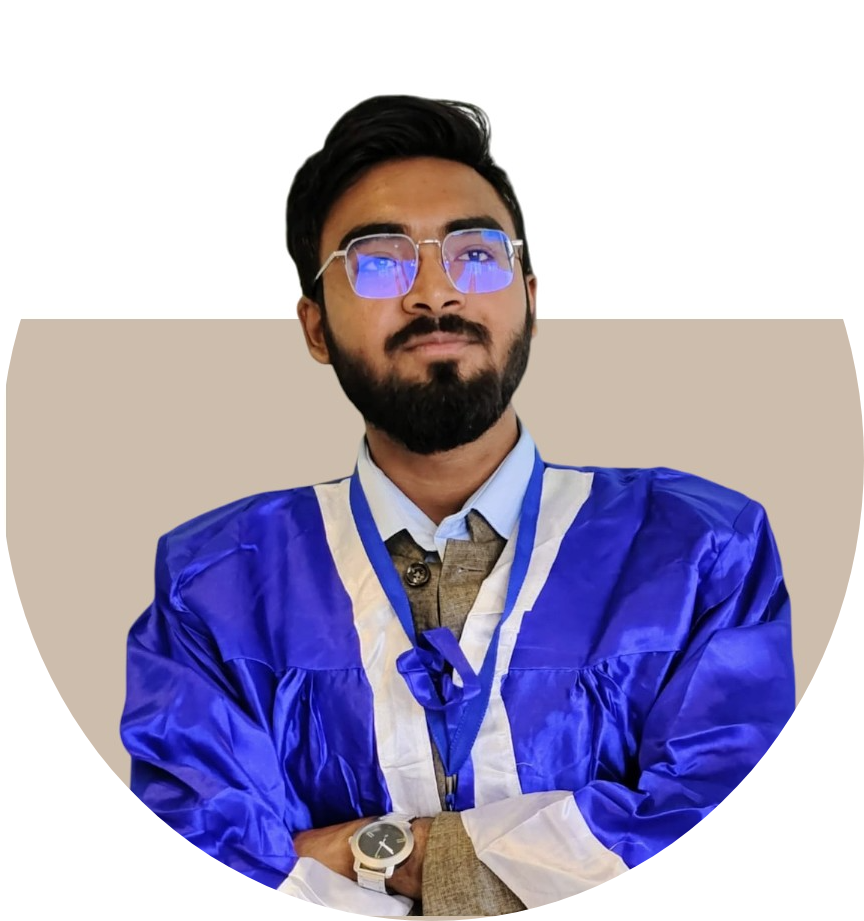
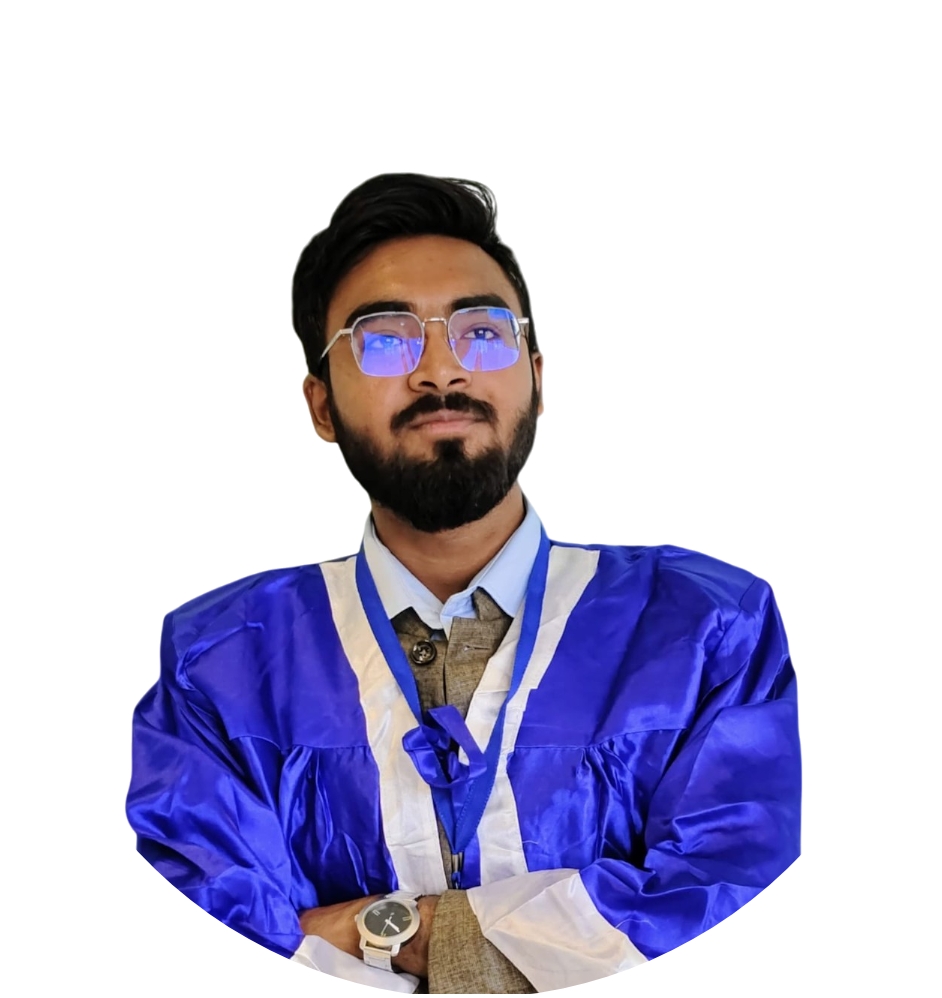
Initial portfolio upload

diff --git a/style.css b/style.css
@@ -285,6 +285,7 @@ section{
     position: relative;
     width: 400px;
     height: auto;
+    top: 38px; 
     z-index: 10;
 }
 
@@ -314,7 +315,7 @@ section{
     content: "";
     position: absolute;
     inset: 20px;
-    background: #00aaff;
+    background: #f6f7f8;
     border-radius: 50%;
     z-index: 1;
 }
